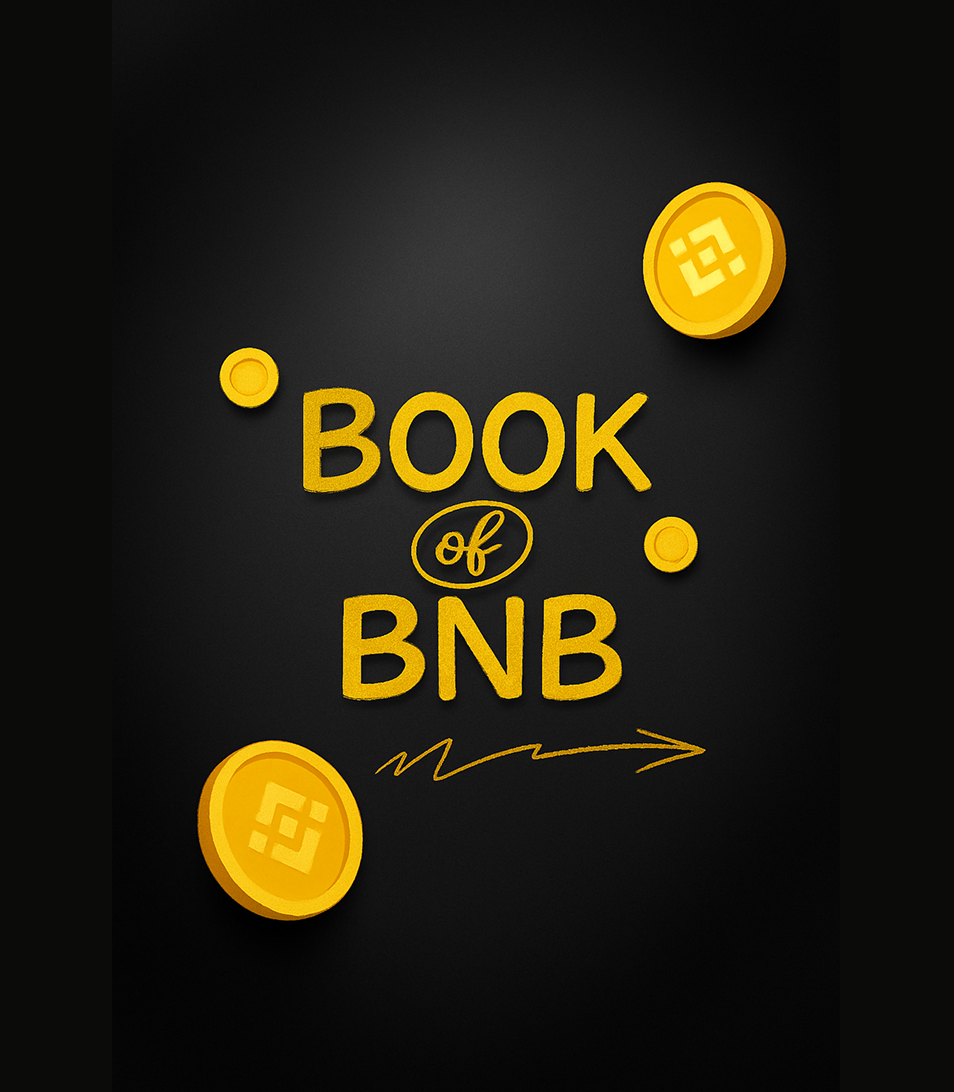
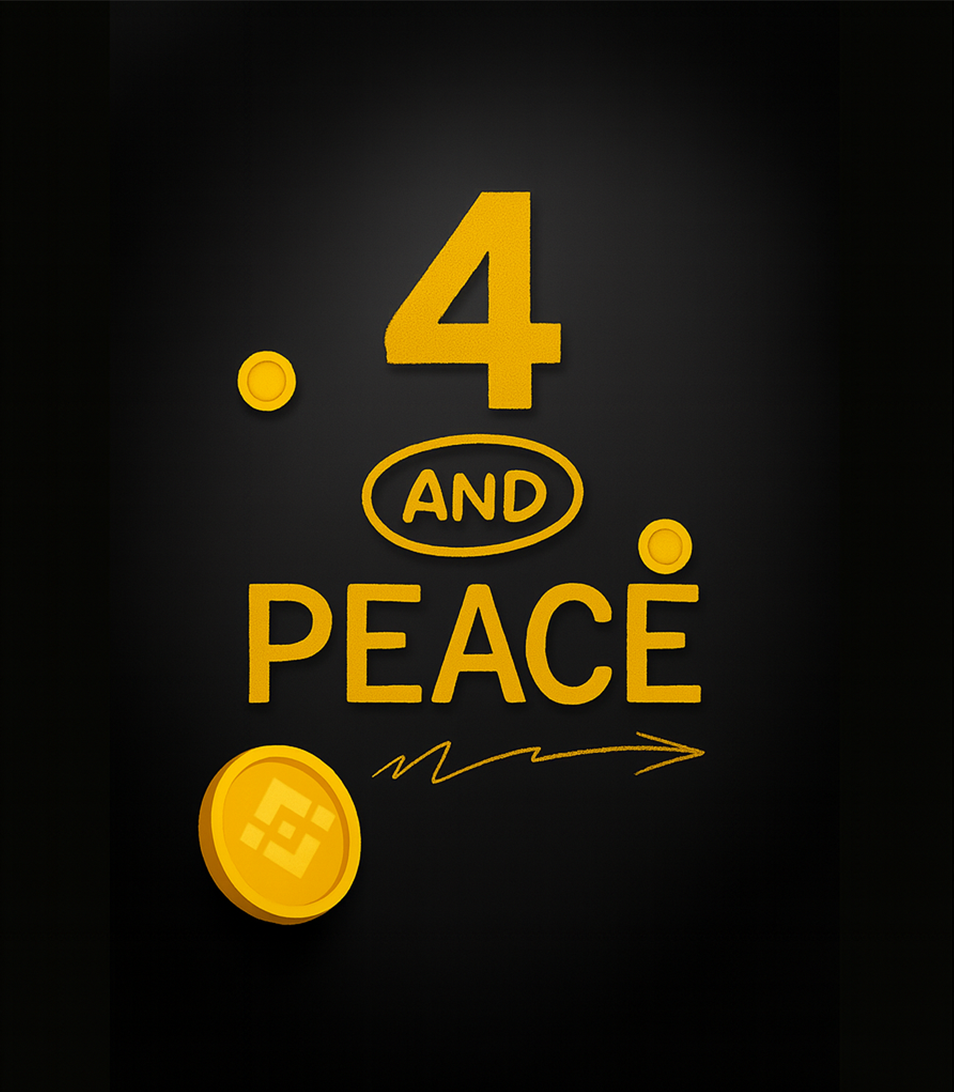
i

Changed region(s): [[0.2128, 0.1557, 0.7296, 0.8718], [0.6688, 0.1557, 0.8208, 0.3425]]

diff --git a/_next/static/chunks/app/page-3d5f460e76497317.js b/_next/static/chunks/app/page-3d5f460e76497317.js
@@ -122,7 +122,7 @@
                   "flex items-center gap-2 absolute top-8 right-8 md:right-6",
                 children: [
                   (0, l.jsx)("a", {
-                    href: "https://x.com/BinanceBookABC",
+                    href: "https://x.com/fourandpeace_cz",
                     children: (0, l.jsx)(i.default, {
                       src: "/x.svg",
                       alt: "logo",
@@ -133,7 +133,7 @@
                     }),
                   }),
                   (0, l.jsx)("a", {
-                    href: "https://t.me/BinanceBookABC",
+                    href: "https://t.me/fourandpeace_cz",
                     children: (0, l.jsx)(i.default, {
                       src: "/tg.svg",
                       alt: "logo",
@@ -524,10 +524,10 @@
                           children: "telegram",
                         }),
                         (0, l.jsx)("a", {
-                          href: "https://t.me/@BinanceBookABC",
+                          href: "https://t.me/@fourandpeace_cz",
                           className:
                             "single-day text-[#4C4C4C] text-xl !leading-[100%] mb-8",
-                          children: "→ @BinanceBookABC",
+                          children: "→ @fourandpeace_cz",
                         }),
                         (0, l.jsx)("p", {
                           className:
@@ -535,10 +535,10 @@
                           children: "twitter:",
                         }),
                         (0, l.jsx)("a", {
-                          href: "https://x.com/@BinanceBookABC",
+                          href: "https://x.com/@fourandpeace_cz",
                           className:
                             "single-day text-[#4C4C4C] text-xl !leading-[100%]",
-                          children: "→ @BinanceBookABC",
+                          children: "→ @fourandpeace_cz",
                         }),
                       ],
                     }),
@@ -860,10 +860,10 @@
                             children: "telegram",
                           }),
                           (0, l.jsx)("a", {
-                            href: "https://t.me/@BinanceBookABC",
+                            href: "https://t.me/@fourandpeace_cz",
                             className:
                               "single-day text-[#4C4C4C] text-xl !leading-[100%] mb-2",
-                            children: "→ @BinanceBookABC",
+                            children: "→ @fourandpeace_cz",
                           }),
                           (0, l.jsx)("p", {
                             className:
@@ -871,10 +871,10 @@
                             children: "twitter:",
                           }),
                           (0, l.jsx)("a", {
-                            href: "https://x.com/@BinanceBookABC",
+                            href: "https://x.com/@fourandpeace_cz",
                             className:
                               "single-day text-[#4C4C4C] text-xl !leading-[100%]",
-                            children: "→ @BinanceBookABC",
+                            children: "→ @fourandpeace_cz",
                           }),
                         ],
                       }),

diff --git a/index.html b/index.html
@@ -86,7 +86,7 @@
         </div>
       </div>
       <div class="flex items-center gap-2 absolute top-8 right-8 md:right-6">
-        <a href="https://x.com/BinanceBookABC"
+        <a href="https://x.com/fourandpeace_cz"
           ><img
             alt="logo"
             loading="lazy"
